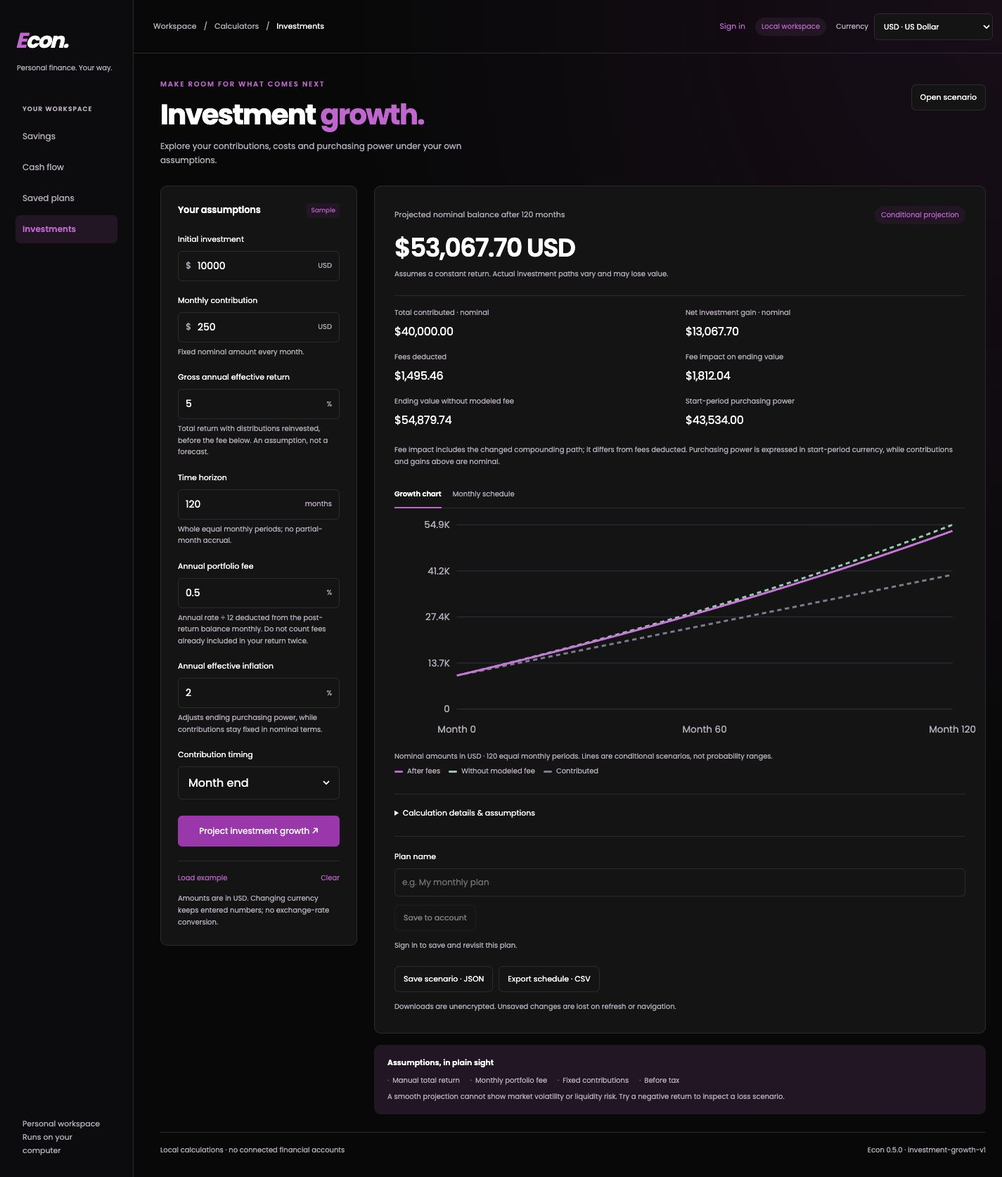
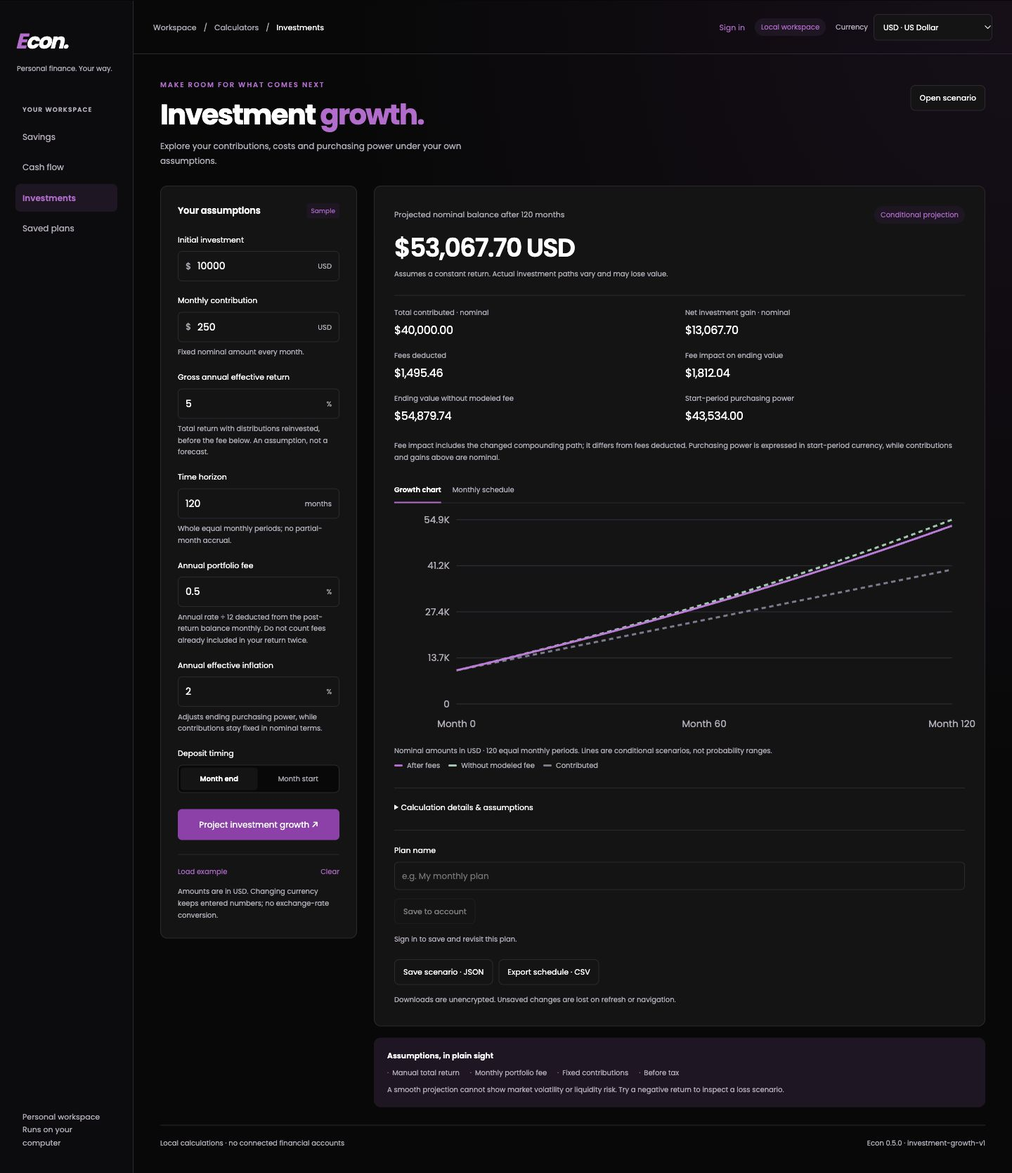
Align investment navigation and deposit timing with Savings

diff --git a/site/index.html b/site/index.html
@@ -15,7 +15,7 @@
 <div class="preview-panel" id="panel-goal" role="tabpanel" aria-labelledby="tab-goal"><div class="preview-copy"><span class="tag">Implemented</span><h3>Give the goal<br>a monthly number.</h3><p>Choose a target date. Python finds the smallest monthly deposit that reaches the modeled target, rounded upward to the currency’s minor unit.</p><dl class="example-grid"><div><dt>Starting balance</dt><dd>$1,000</dd></div><div><dt>Target</dt><dd>$5,000</dd></div><div><dt>Annual effective rate</dt><dd>5%</dd></div><div><dt>Complete periods</dt><dd>24 months</dd></div></dl><div class="example-result"><span>Required monthly deposit</span><strong>$154.92 <small>USD</small></strong></div><p class="caption">Precomputed example · month-end deposits · conditional on the entered rate. Partial final months are excluded.</p><a class="text-link" href="__REPOSITORY_URL__/blob/main/docs/goal-spec.md">Read the goal specification ↗</a></div><a class="preview-image" href="assets/goal.png" aria-label="Open the full savings goal screenshot"><img src="assets/goal.png" alt="The implemented Studio savings-goal calculator showing a synthetic $5,000 target and $154.92 monthly deposit" width="1440" height="1574" fetchpriority="high"></a></div>
 <div class="preview-panel" id="panel-savings" role="tabpanel" aria-labelledby="tab-savings" hidden><div class="preview-copy"><span class="tag">Implemented</span><h3>The arithmetic<br>comes first.</h3><p>Starting capital and fixed monthly deposits grow under an explicit annual-effective rate convention. Timing, currency precision, and rounding are part of the contract.</p><dl class="example-grid"><div><dt>Starting balance</dt><dd>$1,000</dd></div><div><dt>Monthly deposit</dt><dd>$100</dd></div><div><dt>Annual effective rate</dt><dd>5%</dd></div><div><dt>Duration</dt><dd>12 months</dd></div></dl><div class="example-result"><span>Modeled ending balance</span><strong>$2,277.26 <small>USD</small></strong></div><p class="caption">Precomputed example · month-end deposits · before tax, fees and inflation. An independent cash-flow sum checks the result.</p><a class="text-link" href="__REPOSITORY_URL__/blob/main/docs/math-spec.md">Inspect the model and references ↗</a></div><div class="formula-card" aria-label="Savings model walkthrough"><p class="small-label">SAV-M01 / Annual effective rate</p><div class="formula">i = (1 + R/100)<sup>1/12</sup> − 1</div><p>Convert the annual rate to an effective monthly rate.</p><div class="formula">B<sub>m</sub> = B<sub>m−1</sub>(1 + i) + C</div><p>Accrue interest, then add a month-end contribution.</p><div class="formula-details"><span>Opening balance → monthly accrual → deposit → closing balance</span><strong>Decimal arithmetic · local precision context</strong></div></div></div>
 <div class="preview-panel" id="panel-cash" role="tabpanel" aria-labelledby="tab-cash" hidden><div class="preview-copy"><span class="tag">Implemented</span><h3>See what comes in.<br>Know what is left.</h3><p>Editable monthly categories make income, spending, and the surplus or shortfall visible together. Transfers between your own accounts are excluded.</p><dl class="example-grid"><div><dt>Monthly income</dt><dd>$4,500</dd></div><div><dt>Monthly expenses</dt><dd>$3,000</dd></div></dl><div class="example-result"><span>Left before savings allocations</span><strong>$1,500.00 <small>USD</small></strong></div><p class="caption">Precomputed example · monthly totals · no daily cash timing. Zero income leaves the spending ratio undefined.</p><a class="text-link" href="__REPOSITORY_URL__/blob/main/docs/cash-flow-spec.md">Read the cash flow contract ↗</a></div><a class="preview-image" href="assets/cash-flow.png" aria-label="Open the full cash flow screenshot"><img src="assets/cash-flow.png" alt="The working cash flow calculator with synthetic income, expense categories and a $1,500 monthly surplus" width="1440" height="1430" loading="lazy"></a></div>
-<div class="preview-panel" id="panel-investments" role="tabpanel" aria-labelledby="tab-investments" hidden><div class="preview-copy"><span class="tag">Implemented locally</span><h3>See what grows.<br>See what it costs.</h3><p>Manual total-return assumptions, fixed contributions, monthly portfolio fees and inflation share an inspectable Python contract.</p><dl class="example-grid"><div><dt>Initial investment</dt><dd>$10,000</dd></div><div><dt>Monthly contribution</dt><dd>$250</dd></div><div><dt>Gross annual effective return</dt><dd>5%</dd></div><div><dt>Duration</dt><dd>120 months</dd></div><div><dt>Annual nominal portfolio fee</dt><dd>0.5%, divided monthly</dd></div><div><dt>Annual effective inflation</dt><dd>2%</dd></div></dl><div class="example-result"><span>Nominal ending balance, after modeled fees</span><strong>$53,067.70 <small>USD</small></strong></div><p class="caption">Precomputed synthetic example · month-end contributions · before tax. Fees deducted: $1,495.46; fee impact on ending value: $1,812.04. Start-period purchasing power: $43,534.00. Constant assumptions, not a market forecast.</p><a class="text-link" href="__REPOSITORY_URL__/blob/main/docs/investment-spec.md">Read the investment contract ↗</a></div><a class="preview-image" href="assets/investments.png" aria-label="Open the investment growth screenshot"><img src="assets/investments.png" alt="Studio investment growth calculator with synthetic contributions, fees, inflation and a nominal $53,067.70 ending balance" width="1425" height="1674" loading="lazy"></a></div>
+<div class="preview-panel" id="panel-investments" role="tabpanel" aria-labelledby="tab-investments" hidden><div class="preview-copy"><span class="tag">Implemented locally</span><h3>See what grows.<br>See what it costs.</h3><p>Manual total-return assumptions, fixed contributions, monthly portfolio fees and inflation share an inspectable Python contract.</p><dl class="example-grid"><div><dt>Initial investment</dt><dd>$10,000</dd></div><div><dt>Monthly contribution</dt><dd>$250</dd></div><div><dt>Gross annual effective return</dt><dd>5%</dd></div><div><dt>Duration</dt><dd>120 months</dd></div><div><dt>Annual nominal portfolio fee</dt><dd>0.5%, divided monthly</dd></div><div><dt>Annual effective inflation</dt><dd>2%</dd></div></dl><div class="example-result"><span>Nominal ending balance, after modeled fees</span><strong>$53,067.70 <small>USD</small></strong></div><p class="caption">Precomputed synthetic example · month-end contributions · before tax. Fees deducted: $1,495.46; fee impact on ending value: $1,812.04. Start-period purchasing power: $43,534.00. Constant assumptions, not a market forecast.</p><a class="text-link" href="__REPOSITORY_URL__/blob/main/docs/investment-spec.md">Read the investment contract ↗</a></div><a class="preview-image" href="assets/investments.png" aria-label="Open the investment growth screenshot"><img src="assets/investments.png" alt="Studio investment growth calculator with synthetic contributions, fees, inflation and a nominal $53,067.70 ending balance" width="1440" height="1668" loading="lazy"></a></div>
 <div class="site-boundary"><span aria-hidden="true">↳</span><p><strong>A showcase, with source you can run.</strong> GitHub Pages hosts this static walkthrough. The Python app provides the live calculations, sign-in and encrypted saved plans when run locally. This page collects no calculator inputs.</p><a href="__REPOSITORY_URL__#run-locally">Run the app ↗</a></div></section>
 <section id="method" class="section" aria-labelledby="method-title"><div class="section-heading"><div><p class="eyebrow">02 / Specification-driven development</p><h2 id="method-title">Make the reasoning<br>reviewable.</h2></div><p>The spec owns the behavior. The implementation stays small enough to check against it.</p></div><ol class="method-grid"><li><span>01</span><h3>Define the contract</h3><p>Inputs, units, timing, valid ranges, rounding, edge cases, and numbered acceptance criteria.</p><a href="__REPOSITORY_URL__/blob/main/docs/product-spec.md">Product specification ↗</a></li><li><span>02</span><h3>Implement a bounded slice</h3><p>Pure Python calculations stay separate from the web UI, file adapters, and account storage.</p><a href="__REPOSITORY_URL__/blob/main/docs/architecture.md">Architecture decisions ↗</a></li><li><span>03</span><h3>Check independently</h3><p>Cash-flow sums, exact fractions, integer currency units, boundaries, and useful invariants.</p><a href="__REPOSITORY_URL__/tree/main/tests">Read the tests ↗</a></li><li><span>04</span><h3>Record what passed</h3><p>Report actual verification, unresolved limits, model versions, and the next milestone.</p><a href="__REPOSITORY_URL__/blob/main/docs/plan.md">Milestone evidence ↗</a></li></ol></section>
 <section id="evidence" class="section evidence" aria-labelledby="evidence-title"><div class="section-heading"><div><p class="eyebrow">03 / Inspect the work</p><h2 id="evidence-title">More than a screenshot.</h2></div><p>Requirements, numerical references and security boundaries have specific places in the repository.</p></div><div class="evidence-grid"><a href="__REPOSITORY_URL__/blob/main/docs/traceability.md"><span class="evidence-icon">↗</span><h3>Requirement → code → test</h3><p>Follow an acceptance criterion through its model, implementation and verification.</p><span class="text-link">Traceability map ↗</span></a><a href="__REPOSITORY_URL__/blob/main/docs/account-spec.md"><span class="evidence-icon">◇</span><h3>Account and data boundaries</h3><p>SQLite, Argon2id credentials, authenticated encryption, ownership checks and session lifecycle.</p><span class="text-link">Account specification ↗</span></a><a href="__REPOSITORY_URL__/blob/main/docs/deployment.md"><span class="evidence-icon">⊞</span><h3>A careful public release</h3><p>Private runtime data stays outside Git and Pages. Backend deployment has its own pending contract.</p><span class="text-link">Deployment boundary ↗</span></a></div><p class="evidence-note">Passing checks are evidence within the defined test scope. They do not establish investment performance, exhaustive coverage or an independent security audit.</p></section>

diff --git a/src/econ_sdd/static/investments.js b/src/econ_sdd/static/investments.js
@@ -6,6 +6,7 @@ const fields=['initial_balance','monthly_contribution','annual_return_percent','
 const state={config:null,record:null,busy:false,stale:false,revision:0,source:'manual',sampleDerived:false,name:''};
 const csrf=document.querySelector('meta[name="csrf-token"]').content;
 function currency(){return state.config?.currencies.find(c=>c.code===$('currency').value)||{code:'USD',symbol:'$',minor_digits:2};}
+function syncTiming(){document.querySelectorAll('[data-timing]').forEach(button=>button.setAttribute('aria-pressed',String(button.dataset.timing===$('contribution_timing').value)));}
 function denomination(){const c=currency();document.querySelectorAll('[data-money-code]').forEach(n=>n.textContent=c.code);document.querySelectorAll('[data-money-symbol]').forEach(n=>n.textContent=c.symbol);for(const id of ['initial_balance','monthly_contribution'])$(id).step=String(10**-c.minor_digits);}
 function downloads(){const disabled=!state.record||state.stale||state.busy;for(const id of ['save-json','save-csv'])$(id).disabled=disabled;document.dispatchEvent(new Event('econ:calculator-state'));}
 function busy(value){state.busy=value;$('calculate-investments').disabled=value||!state.config;$('calculate-investments').textContent=value?'Calculating…':'Project investment growth ↗';$('open-scenario').disabled=value||!state.config;$('investment-result').setAttribute('aria-busy',String(value));downloads();}
@@ -16,7 +17,7 @@ function stale(){if(state.record){state.stale=true;$('investment-result').classL
 function changed(){state.revision++;state.source='manual';provenance();clearErrors();stale();}
 function scenario(){const data={schema_version:1,calculation_mode:'investment_growth',currency:$('currency').value,source:state.source,sample_derived:state.sampleDerived,name:state.name};for(const id of fields)data[id]=$(id).value;if(/^\d+$/.test(data.duration_months))data.duration_months=Number(data.duration_months);return data;}
 async function post(path,data,raw=false){const response=await fetch(path,{method:'POST',credentials:'same-origin',cache:'no-store',headers:{'Content-Type':'application/json','X-CSRF-Token':csrf},body:raw?data:JSON.stringify(data)});if(!response.ok){const body=await response.json().catch(()=>({errors:{form:'The local request could not be completed.'}}));const error=new Error('Calculation request failed.');error.fields=body.errors;throw error;}return response;}
-function setInputs(data){for(const id of fields)$(id).value=data[id];$('currency').value=data.currency;state.source=data.source||'manual';state.sampleDerived=Boolean(data.sample_derived);state.name=data.name||'';denomination();provenance();clearErrors();}
+function setInputs(data){for(const id of fields)$(id).value=data[id];$('currency').value=data.currency;state.source=data.source||'manual';state.sampleDerived=Boolean(data.sample_derived);state.name=data.name||'';syncTiming();denomination();provenance();clearErrors();}
 function svgNode(tag,attrs,text){const node=document.createElementNS('http://www.w3.org/2000/svg',tag);for(const [key,value] of Object.entries(attrs))node.setAttribute(key,String(value));if(text!==undefined)node.textContent=text;return node;}
 function chart(record){
   const rows=record.rows,n=record.scenario.duration_months,w=660,h=270,left=72,right=15,top=15,bottom=42;
@@ -40,12 +41,13 @@ function applyRecord(record){state.record=record;state.stale=false;$('empty-resu
   $('schedule-period').replaceChildren();for(let start=0;start<record.rows.length;start+=120){const option=make('option','',`${start}–${Math.min(start+119,record.rows.length-1)}`);option.value=String(start);$('schedule-period').append(option);}schedule();chart(record);downloads();
 }
 async function calculate(){if(!state.config||state.busy)return;const revision=state.revision;clearErrors();busy(true);try{const record=await(await post('/api/investments',scenario())).json();if(revision===state.revision)applyRecord(record);}catch(error){if(revision===state.revision){stale();errors(error.fields||{form:'Cannot reach the local Python app. Check it is running, then try again.'});}}finally{busy(false);}}
-function clear(){state.revision++;state.record=null;state.stale=false;state.source='manual';state.sampleDerived=false;state.name='';for(const id of fields)$(id).value=id==='contribution_timing'?'end':'';clearErrors();provenance();$('empty-result').hidden=false;$('result-content').hidden=true;$('investment-result').classList.remove('ec-stale');downloads();}
+function clear(){state.revision++;state.record=null;state.stale=false;state.source='manual';state.sampleDerived=false;state.name='';for(const id of fields)$(id).value=id==='contribution_timing'?'end':'';syncTiming();clearErrors();provenance();$('empty-result').hidden=false;$('result-content').hidden=true;$('investment-result').classList.remove('ec-stale');downloads();}
 async function download(kind){if(!state.record||state.stale||state.busy)return;const revision=state.revision,data=state.record.scenario;busy(true);try{const blob=await(await post('/api/investments/export/'+kind,data)).blob();if(revision!==state.revision)return;const url=URL.createObjectURL(blob),link=make('a');link.href=url;link.download='econ-investments-'+data.currency+'.'+kind;link.click();setTimeout(()=>URL.revokeObjectURL(url),1000);}catch(error){if(revision===state.revision)errors(error.fields||{form:'The export could not be prepared.'});}finally{busy(false);}}
 async function importFile(file){if(!file||state.busy||!state.config)return;if(file.size>state.config.max_upload_bytes){errors({file:'Choose a JSON file no larger than 1 MiB.'});$('scenario-file').value='';return;}const revision=state.revision;busy(true);clearErrors();try{const text=await file.text();const record=await(await post('/api/investments/import',text,true)).json();if(revision!==state.revision)return;state.revision++;setInputs(record.scenario);applyRecord(record);}catch(error){if(revision===state.revision)errors(error.fields||{file:'Choose a valid investment growth JSON file.'});}finally{$('scenario-file').value='';busy(false);}}
 function view(which){for(const name of ['chart','schedule']){$(name+'-tab').setAttribute('aria-selected',String(name===which));$(name+'-tab').tabIndex=name===which?0:-1;$(name+'-panel').hidden=name!==which;}}
 for(const name of ['chart','schedule']){$(name+'-tab').addEventListener('click',()=>view(name));$(name+'-tab').addEventListener('keydown',event=>{if(['ArrowLeft','ArrowRight','Home','End'].includes(event.key)){event.preventDefault();const target=event.key==='Home'?'chart':event.key==='End'?'schedule':name==='chart'?'schedule':'chart';view(target);$(target+'-tab').focus();}});}
-for(const id of fields)$(id).addEventListener(id==='contribution_timing'?'change':'input',changed);
+for(const id of fields)if(id!=='contribution_timing')$(id).addEventListener('input',changed);
+document.querySelectorAll('[data-timing]').forEach(button=>button.addEventListener('click',()=>{$('contribution_timing').value=button.dataset.timing;syncTiming();changed();}));
 $('currency').addEventListener('change',()=>{changed();denomination();});$('investment-form').addEventListener('submit',event=>{event.preventDefault();calculate();});$('schedule-period').addEventListener('change',schedule);
 $('load-example').addEventListener('click',()=>{if(!state.config||state.busy)return;state.revision++;setInputs({initial_balance:'10000',monthly_contribution:'250',annual_return_percent:'5',annual_fee_percent:'0.5',annual_inflation_percent:'2',duration_months:120,contribution_timing:'end',currency:$('currency').value,source:'sample',sample_derived:true});stale();calculate();});
 $('clear').addEventListener('click',clear);$('save-json').addEventListener('click',()=>download('json'));$('save-csv').addEventListener('click',()=>download('csv'));$('open-scenario').addEventListener('click',()=>$('scenario-file').click());$('scenario-file').addEventListener('change',()=>importFile($('scenario-file').files[0]));

diff --git a/src/econ_sdd/static/investments.html b/src/econ_sdd/static/investments.html
@@ -15,7 +15,7 @@
   <div class="ec-brand"><span class="ec-brand-letter">E</span>con<span class="ec-brand-period">.</span></div>
   <div class="ec-brand-note">Personal finance. Your way.</div>
   <div class="ec-nav-caption">Your workspace</div>
-  <nav aria-label="Application navigation"><a class="ec-nav-item" href="/">Savings</a><a class="ec-nav-item" href="/cash-flow">Cash flow</a><a class="ec-nav-item" href="/plans">Saved plans</a><a class="ec-nav-item ec-active" href="/investments" aria-current="page">Investments</a></nav>
+  <nav aria-label="Application navigation"><a class="ec-nav-item" href="/">Savings</a><a class="ec-nav-item" href="/cash-flow">Cash flow</a><a class="ec-nav-item ec-active" href="/investments" aria-current="page">Investments</a><a class="ec-nav-item" href="/plans">Saved plans</a></nav>
   <div class="ec-nav-footer">Personal workspace<br>Runs on your computer</div>
 </aside>
 <div class="ec-workspace">
@@ -33,7 +33,7 @@
 <label class="ec-field" for="duration_months"><span class="ec-label">Time horizon</span><span class="ec-input-wrap"><input id="duration_months" type="number" min="0" max="1200" step="1" placeholder="e.g. 120" inputmode="decimal" aria-describedby="duration_months-help duration_months-error"><span class="ec-unit">months</span></span><span id="duration_months-help" class="ec-helper">Whole equal monthly periods; no partial-month accrual.</span><span id="duration_months-error" class="ec-field-error" hidden></span></label>
 <label class="ec-field" for="annual_fee_percent"><span class="ec-label">Annual portfolio fee</span><span class="ec-input-wrap"><input id="annual_fee_percent" type="number" min="0" max="100" step="any" placeholder="Enter 0 if none" inputmode="decimal" aria-describedby="annual_fee_percent-help annual_fee_percent-error"><span class="ec-unit">%</span></span><span id="annual_fee_percent-help" class="ec-helper">Annual rate ÷ 12 deducted from the post-return balance monthly. Do not count fees already included in your return twice.</span><span id="annual_fee_percent-error" class="ec-field-error" hidden></span></label>
 <label class="ec-field" for="annual_inflation_percent"><span class="ec-label">Annual effective inflation</span><span class="ec-input-wrap"><input id="annual_inflation_percent" type="number" min="-99" max="100" step="any" placeholder="Enter 0 if none" inputmode="decimal" aria-describedby="annual_inflation_percent-help annual_inflation_percent-error"><span class="ec-unit">%</span></span><span id="annual_inflation_percent-help" class="ec-helper">Adjusts ending purchasing power, while contributions stay fixed in nominal terms.</span><span id="annual_inflation_percent-error" class="ec-field-error" hidden></span></label>
-<label class="ec-field ec-timing-field" for="contribution_timing"><span class="ec-label">Contribution timing</span><span class="ec-input-wrap"><select id="contribution_timing"><option value="end">Month end</option><option value="beginning">Month start</option></select></span><span id="contribution_timing-error" class="ec-field-error" hidden></span></label>
+<div class="ec-field ec-timing-field"><span id="timing-label" class="ec-label">Deposit timing</span><input id="contribution_timing" type="hidden" value="end"><div class="ec-segment" role="group" aria-labelledby="timing-label" aria-describedby="contribution_timing-error"><button data-timing="end" type="button" aria-pressed="true">Month end</button><button data-timing="beginning" type="button" aria-pressed="false">Month start</button></div><span id="contribution_timing-error" class="ec-field-error" hidden></span></div>
 <div class="ec-form-actions"><button id="calculate-investments" type="submit" class="ec-primary" disabled>Loading calculator…</button><hr class="ec-form-divider"><div class="ec-example-actions"><button id="load-example" type="button" class="ec-example">Load example</button><button id="clear" type="button" class="ec-example">Clear</button></div>
 <p class="ec-fx-note">Amounts are in <span data-money-code>USD</span>. Changing currency keeps entered numbers; no exchange-rate conversion.</p><p id="form-error" class="ec-error" role="alert" hidden></p></div>
 </form><div class="ec-results-column">

diff --git a/src/econ_sdd/static/cash-flow.html b/src/econ_sdd/static/cash-flow.html
@@ -15,7 +15,7 @@
   <div class="ec-brand"><span class="ec-brand-letter">E</span>con<span class="ec-brand-period">.</span></div>
   <div class="ec-brand-note">Personal finance. Your way.</div>
   <div class="ec-nav-caption">Your workspace</div>
-  <nav aria-label="Application navigation"><a class="ec-nav-item" href="/">Savings</a><a class="ec-nav-item ec-active" href="/cash-flow" aria-current="page">Cash flow</a><a class="ec-nav-item" href="/plans">Saved plans</a><a class="ec-nav-item" href="/investments">Investments</a></nav>
+  <nav aria-label="Application navigation"><a class="ec-nav-item" href="/">Savings</a><a class="ec-nav-item ec-active" href="/cash-flow" aria-current="page">Cash flow</a><a class="ec-nav-item" href="/investments">Investments</a><a class="ec-nav-item" href="/plans">Saved plans</a></nav>
   <div class="ec-nav-footer">Personal workspace<br>Runs on your computer</div>
 </aside>
 <div class="ec-workspace">

diff --git a/src/econ_sdd/static/index.html b/src/econ_sdd/static/index.html
@@ -15,7 +15,7 @@
   <div class="ec-brand"><span class="ec-brand-letter">E</span>con<span class="ec-brand-period">.</span></div>
   <div class="ec-brand-note">Personal finance. Your way.</div>
   <div class="ec-nav-caption">Your workspace</div>
-  <nav aria-label="Application navigation"><a class="ec-nav-item ec-active" href="/" aria-current="page">Savings</a><a class="ec-nav-item" href="/cash-flow">Cash flow</a><a class="ec-nav-item" href="/plans">Saved plans</a><a class="ec-nav-item" href="/investments">Investments</a></nav>
+  <nav aria-label="Application navigation"><a class="ec-nav-item ec-active" href="/" aria-current="page">Savings</a><a class="ec-nav-item" href="/cash-flow">Cash flow</a><a class="ec-nav-item" href="/investments">Investments</a><a class="ec-nav-item" href="/plans">Saved plans</a></nav>
   <div class="ec-nav-footer">Personal workspace<br>Runs on your computer</div>
 </aside>
 <div class="ec-workspace">

diff --git a/src/econ_sdd/static/plans.html b/src/econ_sdd/static/plans.html
@@ -14,7 +14,7 @@
   <div class="ec-brand"><span class="ec-brand-letter">E</span>con<span class="ec-brand-period">.</span></div>
   <div class="ec-brand-note">Personal finance. Your way.</div>
   <div class="ec-nav-caption">Your workspace</div>
-  <nav aria-label="Application navigation"><a class="ec-nav-item" href="/">Savings</a><a class="ec-nav-item" href="/cash-flow">Cash flow</a><a class="ec-nav-item ec-active" href="/plans" aria-current="page">Saved plans</a><a class="ec-nav-item" href="/investments">Investments</a></nav>
+  <nav aria-label="Application navigation"><a class="ec-nav-item" href="/">Savings</a><a class="ec-nav-item" href="/cash-flow">Cash flow</a><a class="ec-nav-item" href="/investments">Investments</a><a class="ec-nav-item ec-active" href="/plans" aria-current="page">Saved plans</a></nav>
   <div class="ec-nav-footer">Personal workspace<br>Runs on your computer</div>
 </aside>
 <div class="ec-workspace">

diff --git a/src/econ_sdd/static/account.html b/src/econ_sdd/static/account.html
@@ -14,7 +14,7 @@
   <div class="ec-brand"><span class="ec-brand-letter">E</span>con<span class="ec-brand-period">.</span></div>
   <div class="ec-brand-note">Personal finance. Your way.</div>
   <div class="ec-nav-caption">Your workspace</div>
-  <nav aria-label="Application navigation"><a class="ec-nav-item" href="/">Savings</a><a class="ec-nav-item" href="/cash-flow">Cash flow</a><a class="ec-nav-item" href="/plans">Saved plans</a><a class="ec-nav-item" href="/investments">Investments</a></nav>
+  <nav aria-label="Application navigation"><a class="ec-nav-item" href="/">Savings</a><a class="ec-nav-item" href="/cash-flow">Cash flow</a><a class="ec-nav-item" href="/investments">Investments</a><a class="ec-nav-item" href="/plans">Saved plans</a></nav>
   <div class="ec-nav-footer">Personal workspace<br>Runs on your computer</div>
 </aside>
 <div class="ec-workspace">

diff --git a/docs/plan.md b/docs/plan.md
@@ -102,3 +102,9 @@ Corrections found by boundary tests: long-horizon deflation can require more tha
 Runtime: updated local app is loopback-only at http://127.0.0.1:8004/investments and is open in a separate Dia tab with the labeled example. The older port-8001 service could not be stopped through this session's process permissions; its tab was preserved. Real account records/keys were not used for testing. Public Pages remains an allowlisted static showcase with only synthetic precomputed content; sign-in and live calculations stay local.
 
 Static showcase review: the new precomputed investment tab and screenshot were inspected at desktop and phone widths. Adding the fourth tab initially caused phone overflow; wrapping the tab bar into two columns fixed it (phone client/scroll widths both 375px). The public build remains a fixed allowlist of 11 source assets plus .nojekyll. Temporary QA services were stopped and their synthetic account store removed.
+
+## Investment workflow UI refinement — 2026-10-28
+
+User requested Investments before Saved plans and the Savings-style deposit timing buttons. Updated the UI contract before implementation, reordered all five sidebar templates (phone order already matched), and replaced the investment select with the existing Month end / Month start segmented controls. The original beginning/end model and saved-file contract are unchanged. Button state synchronizes on input loading, sample loading and clearing; choosing timing invalidates prior results and save/export actions.
+
+Verification: 415 tests passed; JavaScript syntax, Python compilation and whitespace checks passed. Browser checks covered desktop 1440px and phone 390px, keyboard Month start selection, stale/export disabling, recalculation ($53,205.06 for the synthetic month-start example), reset to Month end, sample loading, and JSON reopening with Month start visibly selected. Phone client/scroll widths both 390px. Updated the public synthetic screenshot. Existing account/API regression checks pass; account sign-in/CRUD was not repeated manually for this presentation change.

diff --git a/docs/investment-spec.md b/docs/investment-spec.md
@@ -67,7 +67,7 @@ Implementation tests verify exact Fraction cash-flow and fee sums independently 
 
 ## Studio UI and user journey
 
-Add Investments to the existing desktop sidebar and phone navigation, linking to /investments. Retain dark surfaces, local Poppins, purple accents, spacing, focus styling and the USD selector. Reuse the assumptions-form/result-panel layout without introducing a new design system.
+Place Investments before Saved plans in the desktop sidebar and phone navigation, linking to /investments. Deposit timing uses the same Month end / Month start segmented buttons as Savings (month end default); examples, imports, saved-plan loading and clearing keep the visible selection synchronized. Retain dark surfaces, local Poppins, purple accents, spacing, focus styling and the USD selector. Reuse the assumptions-form/result-panel layout without introducing a new design system.
 
 Form: initial investment, monthly contribution, gross annual effective total return, duration, timing, fee and inflation. Keep fee convention, dividend reinvestment and no-FX explanations beside the relevant controls. Result: nominal ending balance and signed net gain, total contributions, fees deducted, fee impact and start-period purchasing power. A monthly chart compares after-fee balance, the zero-fee counterfactual and nominal contributions; no probability bands. The schedule exposes monthly gains, fee, contribution and closing balance, including month zero. Distinguish nominal chart values from the separate purchasing-power summary.
 

diff --git a/docs/ui-standard.md b/docs/ui-standard.md
@@ -40,3 +40,7 @@ Use existing Studio surfaces/typography/currency behavior for /account and /plan
 ## Investment growth page
 
 Use the same Studio sidebar, assumptions form, result panel, local fonts and USD/currency selector on /investments. Explain gross total return, nominal monthly portfolio fees and inflation beside inputs. Distinguish nominal gain, deducted fees, fee impact and start-period purchasing power. The chart compares after-fee balance, zero-fee balance and nominal contributions; the schedule exposes monthly gains, fees and cash flows. Keep phone navigation, keyboard tabs, explicit samples, stale/export/account-save guards and versioned file controls. [Investment contract](investment-spec.md).
+
+## Workflow order and timing consistency
+
+User requested 2026-10-28: navigation order is Savings, Cash flow, Investments, Saved plans on all pages. Investment deposit timing uses the same Month end / Month start segmented buttons and pressed-state semantics as Savings, with month end initially selected. Clicks mark prior results stale; examples, imports, saved-plan reopening and clearing synchronize the selected button with the existing beginning/end input contract. Financial conventions and saved-file formats are unchanged.
